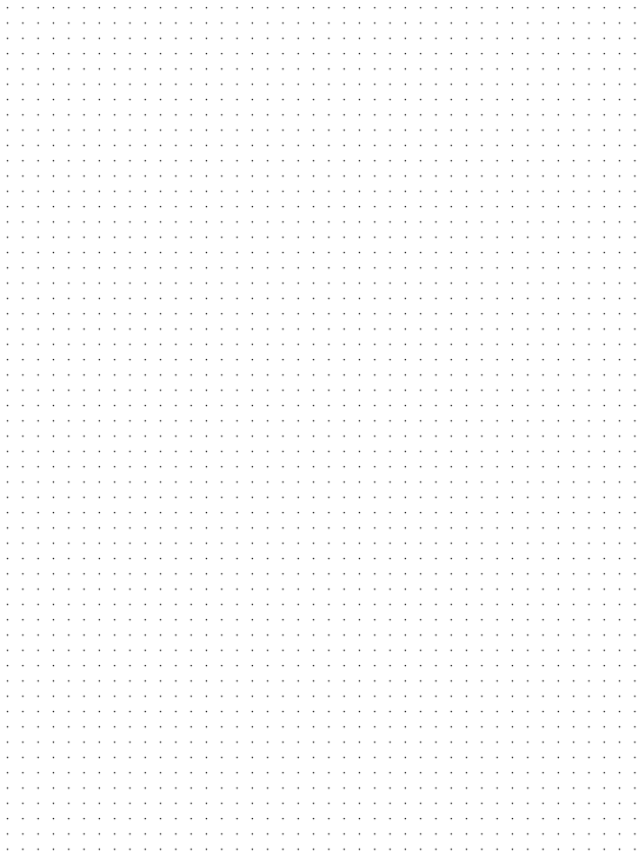
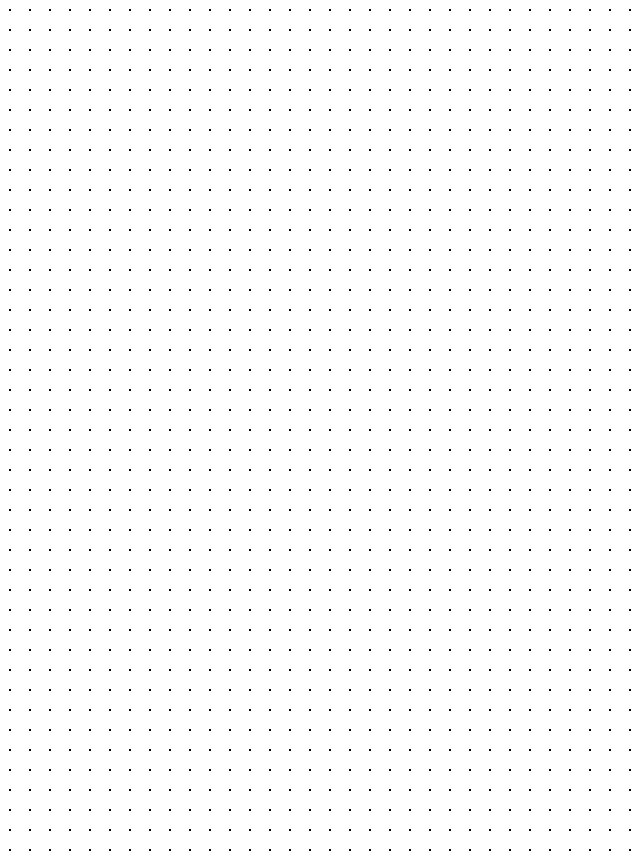
Cleaned up standings graphics

diff --git a/Sentinel/AthleticsDetailViewController.m b/Sentinel/AthleticsDetailViewController.m
@@ -63,14 +63,14 @@
     [self.navigationController.view addSubview:toolbar];
 	// Do any additional setup after loading the view.
     standingsTableView = [[UITableView alloc] initWithFrame:CGRectMake(0, 0, self.view.bounds.size.width, self.view.bounds.size.height - 90) style:UITableViewStylePlain];
-    self.standingsTableView.backgroundColor = [UIColor colorWithPatternImage:[UIImage imageNamed:@"Dotbackground.png"]];
+    self.standingsTableView.backgroundColor = [UIColor colorWithPatternImage:[UIImage imageNamed:@"Dotbackground2.png"]];
     [standingsTableView setDelegate:self];
     [standingsTableView setDataSource:self];
     standingsTableView.hidden = NO;
     [self.view addSubview:standingsTableView];
     
     scheduleTableView = [[UITableView alloc] initWithFrame:CGRectMake(0, 0, self.view.bounds.size.width, self.view.bounds.size.height - 200) style:UITableViewStylePlain];
-    self.scheduleTableView.backgroundColor = [UIColor colorWithPatternImage:[UIImage imageNamed:@"Dotbackground.png"]];
+    self.scheduleTableView.backgroundColor = [UIColor colorWithPatternImage:[UIImage imageNamed:@"Dotbackground2.png"]];
     [scheduleTableView setDelegate:self];
     [scheduleTableView setDataSource:self];
     scheduleTableView.hidden = YES;
@@ -256,10 +256,10 @@
 {
     static NSString *imageName;
     if (indexPath.row % 2) {
-        imageName = @"Standings Cell White.png";
+        imageName = @"Standings Cell White2.png";
     }
     else {
-        imageName = @"Standings Cell Dark White.png";
+        imageName = @"Standings Cell Dark White2.png";
     }
     UIColor *cellColor = [UIColor colorWithPatternImage:[UIImage imageNamed:imageName]];
     cell.backgroundColor = cellColor;
